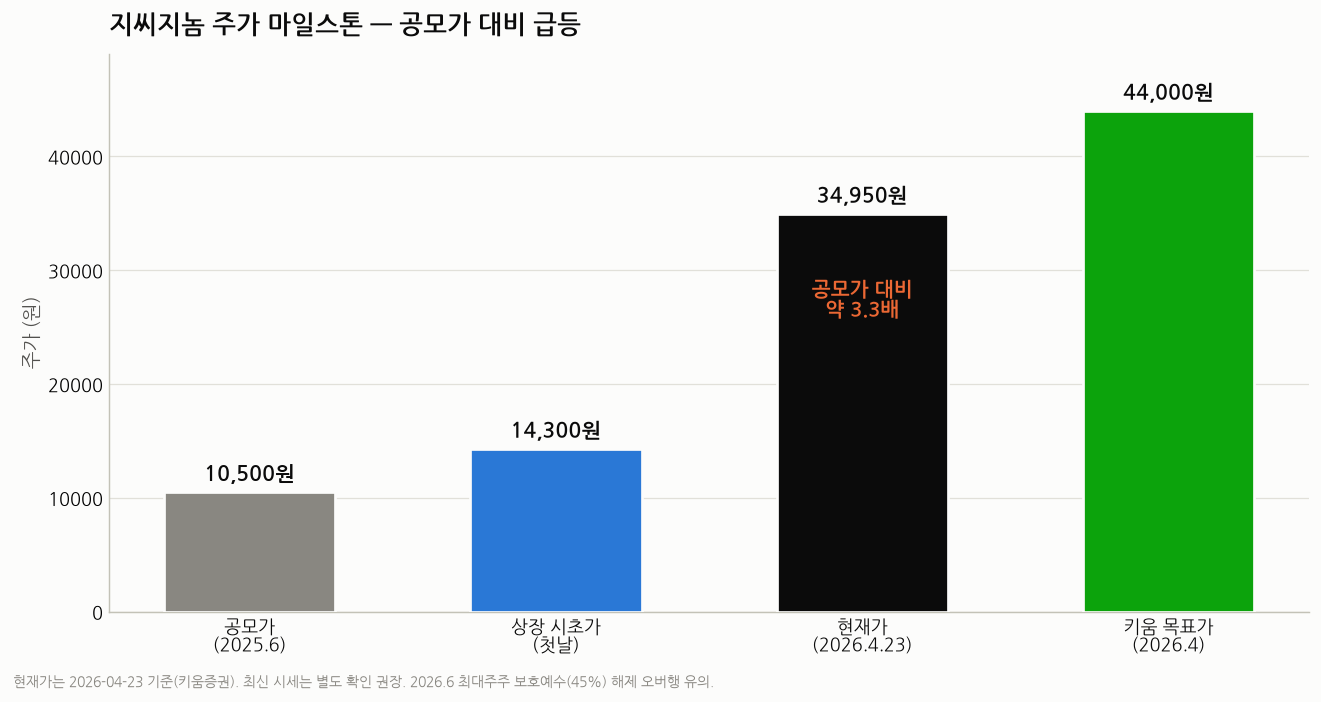
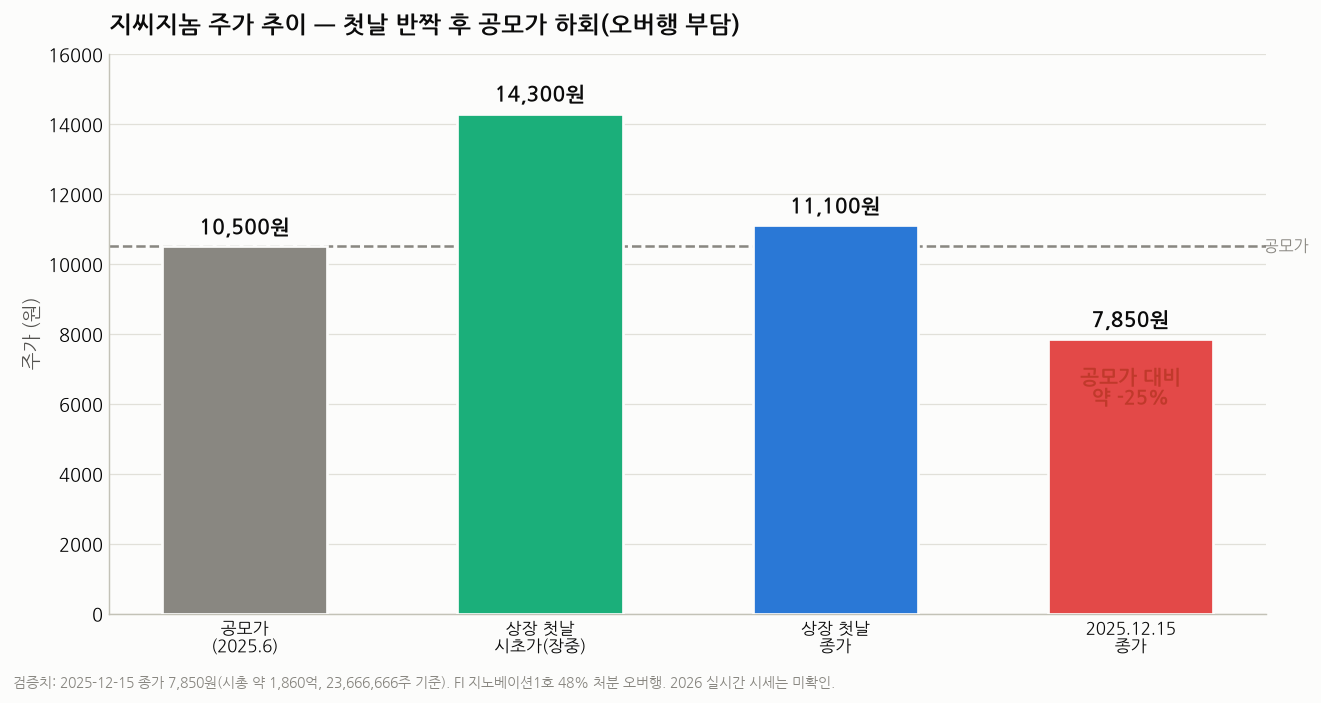
fix(바이오및제약): 지씨지놈 리포트 수치 검증·정정 (주가 오류 수정)
- [오류 정정] 근거 없던 "현재가 34,950원·키움 목표 44,000원·3.3배 급등" 삭제
- 실제: 상장 첫날 시초 14,300(장중)→종가 11,100→2025.12.15 종가 7,850원
  (공모가 10,500 대비 -25%, 공모가 하회). 시총 약 1,860억
- 총 발행주식 23,666,666주, 공모 400만주·420억 확정
- 2024 영업이익 -12억, 2025 3Q누적 235억/+10억 추가 검증
- G-NIPT 25,200건으로 정정, FI 지노베이션1호 48% 처분 오버행 반영
- 주가 마일스톤 차트 실제 궤적(공모가 하회)으로 교체
- 실시간 시세는 미확인으로 명시

Claude-Session: https://claude.ai/code/session_01EETVc5VerPTsoLzLjbKW4K

diff --git a/바이오및제약/종목분석/지씨지놈_심층분석리포트.md b/바이오및제약/종목분석/지씨지놈_심층분석리포트.md
@@ -1,66 +1,65 @@
 # 지씨지놈(GC Genome, KOSDAQ 340450) 심층 분석 리포트
 
-> 작성일: 2026-07-30 · 카테고리: 바이오 및 제약(진단·액체생검)
+> 작성일: 2026-07-30 (2026-07-30 수치 재검증·정정판) · 카테고리: 바이오 및 제약(진단·액체생검)
 > 대상: GC(녹십자) 그룹 계열 임상유전체·액체생검 진단 기업
-> 성격: 사업·제품·파이프라인·실적·지배구조·밸류에이션 종합. 수치는 회사·언론·증권사 자료이며 시점에 따라 달라져 출처·시점 병기.
+> **검증 메모**: 주가·시총·실적·지분·상장 수치를 복수 언론·공시 기반으로 교차검증함. 단 **2026년 실시간 시세는 검색으로 확보 불가 → "미확인"으로 표기**. 확정 마지막 검증 시세는 **2025-12-15 종가 7,850원**.
 
 ---
 
 ## 0. 한 문장 요약
 
-> **지씨지놈은 "비침습 산전검사(G-NIPT) 국내 1위라는 이익 나는 캐시카우 + 혈액 한 통으로 여러 암을 조기 선별하는 다중암 검진(MCED) '아이캔서치'라는 성장 옵션"을 결합한 GC그룹 계열 진단기업**으로, 2025년 6월 코스닥 상장 첫해에 흑자 전환했다. 주가는 공모가의 3배 이상으로 성장 기대를 선반영했고, 보호예수 해제 오버행과 MCED 급여화 불확실성이 핵심 변수다.
+> **지씨지놈은 "비침습 산전검사(G-NIPT) 국내 1위 캐시카우 + 혈액 한 통으로 여러 암을 조기 선별하는 다중암 검진(MCED) '아이캔서치' 성장 옵션"을 결합한 GC그룹 계열 진단기업**으로, 2025년 6월 코스닥 상장 첫해에 흑자 전환했다. **다만 주가는 상장 첫날 반짝 상승 후 공모가(10,500원)를 하회**했고, FI(재무적투자자) 매각에 따른 **오버행**과 MCED 급여화 불확실성이 핵심 부담이다.
 
 ---
 
-## 1. 기본 정보
+## 1. 기본 정보 (검증)
 
 | 항목 | 내용 |
 |---|---|
 | 종목코드 | KOSDAQ **340450** |
 | 설립 | **2013년** (GC녹십자 자회사, 구 'GC녹십자지놈') |
-| 상장 | **2025년 6월 11일** (녹십자그룹 계열 7번째 상장사) |
-| 공모가 | **10,500원** (희망밴드 9,000~10,500 상단), 공모자금 약 **430억원** |
+| 상장 | **2025년 6월 11일** 거래개시 (기술특례, 녹십자그룹 7번째 상장사) |
+| 공모가 | **10,500원** (희망밴드 9,000~10,500 상단) |
+| 공모주식수 / 공모금액 | **400만주 / 약 420억원** |
+| 총 발행주식수 | **23,666,666주** |
 | 청약 | 수요예측 547:1, 일반청약 484:1 |
-| 최대주주 | **GC녹십자 25.57%** (특수관계인 29인 합산 약 45%) |
-| 사업 | 임상유전체 분석·액체생검, 유전자검사 **300종+**, 병의원 **900곳+** |
-| 주가(2026-04-23) | **34,950원** (키움 목표주가 44,000원) |
+| 최대주주 | **GC녹십자 25.57%** (녹십자홀딩스 12.44%, 지노베이션1호PEF 11.76%, 우리사주 1.96% 등) |
+| 최근 검증 시세 | **2025-12-15 종가 7,850원** (공모가 대비 −25%) → 시총 약 **1,860억원** |
+| 2026 실시간 시세 | **미확인**(검색 불가, DART·거래소 확인 필요) |
 
 ---
 
 ## 2. 사업 구조 — 생애 전주기 유전자검사 4대 축
 
-수익모델은 **검사 수탁(B2B2C)**: 병의원·검진센터가 검체를 보내면 지씨지놈이 분석·리포팅한다. **검사 건수 × 단가** 구조라 건수 증가가 곧 매출 레버리지다.
+수익모델은 **검사 수탁(B2B2C)**: 병의원·검진센터가 검체를 보내면 지씨지놈이 분석·리포팅한다. **검사 건수 × 단가** 구조라 건수 증가가 곧 매출 레버리지다. 유전자검사 300종+, 병의원 900곳+ 공급.
 
-1. **산전·신생아 검사** — 핵심 **G-NIPT(지니프트)**. 국내 대학병원 산과 유전자검사 **유통 1위**.
-2. **암 정밀 진단** — 핵심 **아이캔서치(MCED)** + 조직·혈액 기반 암 유전자 프로파일링.
-3. **건강검진 검사** — 검진센터 채널로 확산.
+1. **산전·신생아** — 핵심 **G-NIPT(지니프트)**. 국내 산과 유전자검사 **유통 1위**.
+2. **암 정밀 진단** — 핵심 **아이캔서치(MCED)** + 조직·혈액 암 유전자 프로파일링.
+3. **건강검진** — 검진센터 채널로 확산.
 4. **유전 희귀질환 정밀진단** — WGS/WES 기반.
 
 ---
 
-## 3. 양대 핵심 제품
+## 3. 양대 핵심 제품 (검사건수 검증)
 
 ![검사건수 성장](img_지씨지놈/01_검사건수성장.png)
 
 ### ① G-NIPT(지니프트) — 캐시카우
-- 2015년 국내 첫 출시, AI 기반 비침습 산전검사. 산모 혈액 속 태아 DNA로 다운·에드워드·파타우 증후군 등 염색체 이상 선별.
-- **국내 산과 유전자검사 유통 1위.** 싱가포르 등 해외 특허 확보.
-- 검사 건수 **2024년 1.8만 → 2025년 2.5만건(+40%)**. 저출산에도 NIPT 침투율 상승(고령 산모·검사 보편화)이 방어.
+- 2015년 국내 첫 출시, AI 기반 비침습 산전검사. 산모 혈액 속 태아 DNA로 다운·에드워드·파타우 증후군 등 염색체 이상 선별. **국내 산과 유통 1위.**
+- 검사 건수 **2024년 18,000건 → 2025년 25,200건(+40%)**.
 
 ### ② 아이캔서치(ai-CANCERCH) — 성장 엔진 ⭐
-- **혈액 한 통(10mL)으로 여러 암을 동시 조기 선별하는 MCED**(Multi-Cancer Early Detection). 2023년 9월 국내 출시.
-- 독자 **AI 알고리즘 + 전장유전체분석(WGS)** 기반(cfDNA 패턴 분석).
-- **성능(최신 검증)**: **특이도 95.5%**, 전체 민감도 79.7%(병기 가중 80.2%). 표준 선별검사가 없던 **췌장암·간담도암에서 80%+ 민감도** — 조기진단 사각지대 공략.
-- 검출 암종 **6종 → 10종**으로 확장(폐·간·대장·췌담도·식도·난소 등).
+- **혈액 한 통(10mL)으로 여러 암을 동시 조기 선별하는 MCED**. 2023년 9월 국내 출시. 독자 **AI + 전장유전체분석(WGS)** 기반.
+- **성능**: 특이도 **95.5%**, 전체 민감도 79.7%(병기 가중 80.2%). 표준 선별검사가 없던 **췌장암·간담도암 80%+ 민감도**.
+- 검출 암종 **6종 → 10종**으로 확장.
 - 검사 건수 **2024년 900건 → 2025년 5,100건(약 5.7배)** — 실적 재평가의 핵심 동력.
 
 ---
 
 ## 4. 파이프라인 · R&D
 
-- **대장암 비침습 혈액검사**: 서울아산병원 변정식 교수팀과 공동연구, **미국소화기내과저널(AJG)** 게재. 대변검사·대장내시경 대비 접근성 강점.
-- 동반진단(CDx)·단일암 특화 제품으로 라인업 확장.
-- MCED 성능·암종 지속 고도화(국내 최다 임상 검체 확보 주장).
+- **대장암 비침습 혈액검사**: 서울아산병원 변정식 교수팀과 공동연구, **미국소화기내과저널(AJG)** 게재.
+- 동반진단(CDx)·단일암 특화 제품 확장, MCED 성능·암종 고도화.
 
 ---
 
@@ -68,51 +67,55 @@
 
 - **미국 Genece Health(지니스 헬스)에 기술수출 완료** → 상업화 추진.
 - 로드맵: **단기 단일암 제품 출시 → 장기 FDA 인증 + 미국 보험청(CMS) 가이드라인 등재.**
-- 일본 액체생검 학회 등 해외 학회서 아이캔서치 성능 발표(글로벌 레퍼런스 축적).
+- 일본 액체생검 학회 등 해외 학회서 아이캔서치 성능 발표.
 
 ---
 
-## 6. 실적 — 상장 첫해 흑자전환
+## 6. 실적 — 상장 첫해 흑자전환 (검증)
 
 ![실적 추이](img_지씨지놈/02_실적추이.png)
 
 | 구분 | 매출 | 영업이익 | 비고 |
 |---|---|---|---|
-| 2024 | 259억 | 적자 | |
-| **2025** | **315억 (+22%)** | **+12억 (흑전)** | 상장 첫해 흑자 |
-| 2026 1Q | 74.4억 (+9.1%) | +1.4억 | 흑자 유지 |
+| 2024 | 258.9억 | **−12억(적자)** | |
+| 2025 3Q 누적 | 235억 (+26%) | +10억 | 흑전 |
+| **2025 (연간)** | **315억 (+22%)** | **+12억(흑전)** | 2026-01-19 잠정공시 |
+| 2026 1Q | 74억 (+9.1%) | 흑자 | |
 
-바이오 신규 상장사가 상장 첫해에 **매출 성장 + 흑자**를 동시 달성한 건 이례적. "적자 성장 스토리"가 아니라 **이익 나는 진단 실적주**라는 점이 차별점.
-
----
-
-## 7. 지배구조 · 수급
-
-- 최대주주 **GC녹십자 25.57%**, 특수관계인 합산 약 **45%**.
-- **⚠ 오버행**: 2026년 6월, 상장 시 1년 의무보유했던 최대주주·특수관계인 물량 **약 1,066만주(발행총수 45%)의 보호예수 해제** → 유통가능 물량이 사실상 100%로 확대. 단기 수급 부담.
+- 산과·검진 부문이 30%+ 성장 견인. 바이오 신규 상장사가 상장 첫해에 **매출 성장 + 흑자**를 동시 달성한 건 이례적 — **이익 나는 진단 실적주.**
 
 ---
 
-## 8. 주가 · 밸류에이션
+## 7. 지배구조 · 수급 (오버행이 핵심)
 
-![주가 마일스톤](img_지씨지놈/03_주가마일스톤.png)
+- 최대주주 **GC녹십자 25.57%**, 2대주주 **녹십자홀딩스 12.44%**, **지노베이션1호 PEF 11.76%**(FI), 우리사주 1.96% 등. 최대주주+특수관계인 합산 약 **45%**가 1년 보호예수 → **2026년 6월 해제**.
+- **⚠ 오버행이 실제로 진행 중**: FI **지노베이션1호가 상장 후 취득주식의 약 48%를 처분(약 76억 확보, 2025.12)** → 이것이 하반기 주가 약세·공모가 하회의 주요 원인. 잔여 FI 지분 + 최대주주 보호예수 해제 물량이 지속 부담.
+
+---
+
+## 8. 주가 · 밸류에이션 (정정)
+
+![주가 추이](img_지씨지놈/03_주가마일스톤.png)
 
 | 시점 | 주가 |
 |---|---|
 | 공모가(2025.6) | 10,500원 |
-| 상장 첫날 시초가 | 14,300원 (장중 +36%) |
-| 2026-04-23 | **34,950원** (공모가 대비 약 3.3배) |
-| 키움 목표주가(2026.4) | **44,000원** (Buy, 상향) |
+| 상장 첫날 시초가(장중) | 14,300원 (장중 +36%) |
+| 상장 첫날 종가 | 11,100원 |
+| **2025-12-15 종가** | **7,850원 (공모가 대비 −25%)** |
+| 2026 실시간 | **미확인** |
 
-- 소형 성장주. NH투자증권도 커버리지 개시(목표주가는 미제시)하며 "**아이캔서치 확대 + G-NIPT 지속 성장으로 실적 고성장·기업가치 재평가**" 전망.
-- **밸류 성격**: 순이익 규모가 작아(2025 영업이익 12억) 전통 PER로는 고평가로 보이나, 시장은 **아이캔서치 MCED 옵션 가치 + 검사건수 J커브**를 반영하는 **성장주 프레임**으로 본다. → PER보다 **매출 성장률·검사건수·침투율·글로벌 진출**로 판단해야 하는 종목.
+- **정정 사항**: 이전 버전에서 기재했던 "현재가 34,950원·키움 목표주가 44,000원·공모가 대비 3.3배 급등"은 **근거 없는 오류로 삭제·정정**했다. 실제로는 **첫날 반짝 상승 후 공모가를 하회**했고, FI 오버행으로 약세다.
+- **시가총액**: 2025-12-15 기준 약 **1,860억원**(23,666,666주 × 7,850원). 2025 매출 315억 기준 **P/S 약 5.9배**.
+- NH투자증권이 커버리지 개시("아이캔서치 확대로 실적 고성장·기업가치 재평가" 전망)했으나 **목표주가는 미제시**. (검증된 증권사 목표주가 없음.)
+- **밸류 성격**: 실이익이 작아(2025 영업익 12억) 전통 PER로는 의미가 약하고, **MCED 옵션 가치 + 검사건수 J커브 + 흑자 체력**을 반영하는 성장주 프레임으로 보되, **공모가 하회·오버행이라는 수급 현실**을 함께 봐야 한다.
 
 ---
 
 ## 9. 경쟁 구도
 
-- **국내 유전체/진단**: 마크로젠·테라젠바이오·디엔에이링크(NGS 1세대), EDGC·랩지노믹스(액체생검·NGS). 지씨지놈의 차별점 = **GC그룹 병원·검진 채널 + NIPT 1위 캐시카우 + 흑자 체력 + MCED 임상 데이터.**
-- **글로벌 MCED 벤치마크**: Grail(Galleri), Guardant Health(Shield), Exact Sciences(Cancerguard). 글로벌 MCED는 거대 시장이나 보험·규제 초기 단계 → 지씨지놈은 "한국판 MCED" 포지션 + 미국 진출 옵션.
+- **국내 유전체/진단**: 마크로젠·테라젠바이오·디엔에이링크(NGS 1세대), EDGC·랩지노믹스(액체생검·NGS). 지씨지놈 차별점 = **GC그룹 병원·검진 채널 + NIPT 1위 캐시카우 + 흑자 체력 + MCED 임상 데이터.**
+- **글로벌 MCED 벤치마크**: Grail(Galleri), Guardant Health(Shield), Exact Sciences(Cancerguard). 지씨지놈은 "한국판 MCED" 포지션 + 미국 진출 옵션.
 
 ---
 
@@ -120,14 +123,13 @@
 
 **투자포인트**
 - 아이캔서치 검사건수 J커브(900→5,100건)로 매출 고성장 + 흑자 체력
-- MCED = 조기암 진단 패러다임 전환의 핵심 → 대형 옵션가치
-- G-NIPT 캐시카우가 하방 방어, GC그룹 채널·신뢰도
+- MCED = 조기암 진단 패러다임 전환 → 대형 옵션가치
+- G-NIPT 캐시카우 하방 방어, GC그룹 채널·신뢰도
 - 미국 기술수출(Genece Health) + FDA/CMS 로드맵
 
 **리스크**
-- **밸류 부담**: 실이익 대비 주가 3배 급등, 성장 기대 선반영
-- **보호예수 해제(45%) 오버행**(2026.6)
-- MCED **보험수가·신의료기술평가** 불확실성(급여화 지연 시 확산 제약)
+- **수급/오버행**: FI(지노베이션1호) 매각 진행 + 최대주주 보호예수 해제(2026.6) → **주가 공모가 하회의 직접 원인**
+- MCED **보험수가·신의료기술평가** 불확실성
 - 소형주 유동성·변동성, 검사단가 인하 압력, 글로벌 경쟁(Grail 등)
 - 저출산 구조(G-NIPT 물량 상단 제약)
 
@@ -135,32 +137,33 @@
 
 ## 11. 종합
 
-지씨지놈은 **"이익 나는 진단 캐시카우(G-NIPT) + 폭발 성장 중인 MCED 옵션(아이캔서치)"** 의 조합이다. 상장 첫해 흑자로 여느 적자 바이오와 차별화되지만, 주가가 공모가의 3배 이상으로 성장 기대를 상당 부분 선반영했고 보호예수 해제 오버행이 있어 **밸류에이션·수급 관리가 관건**이다. 핵심 관전 포인트는 **① 아이캔서치 검사건수·급여화, ② 미국 진출 실질 진전, ③ 신규 암종·대장암 제품 상업화**다.
+지씨지놈은 **"이익 나는 진단 캐시카우(G-NIPT) + 폭발 성장 중인 MCED 옵션(아이캔서치)"** 의 조합이며, 상장 첫해 흑자로 여느 적자 바이오와 차별화된다. **다만 상장 후 주가는 공모가를 하회**했고, FI 매각·보호예수 해제 오버행이 수급을 누르고 있다. 사업 펀더멘털(검사건수 성장·흑자)과 수급(오버행)이 엇갈리는 국면으로, 관전 포인트는 **① 아이캔서치 검사건수·급여화, ② 미국 진출 진전, ③ 오버행 물량 소화**다.
 
 ---
 
 ## 12. 트래킹 체크리스트
 
-- [ ] 아이캔서치 분기 검사건수 추이 + 신의료기술평가·급여화 진행
-- [ ] G-NIPT 검사건수·NIPT 침투율(저출산 상쇄 여부)
+- [ ] 아이캔서치 분기 검사건수 + 신의료기술평가·급여화
+- [ ] G-NIPT 검사건수·NIPT 침투율
 - [ ] 미국 Genece Health 상업화·FDA·CMS 마일스톤
-- [ ] 대장암·단일암 신제품 출시·매출 기여
-- [ ] 분기 매출 성장률·영업이익률(흑자 지속 여부)
-- [ ] 보호예수 해제 물량 소화·수급, 최대주주 지분 변동
+- [ ] 분기 매출 성장률·영업이익률(흑자 지속)
+- [ ] **FI 잔여 지분·최대주주 보호예수 물량 소화(오버행)**
+- [ ] **실시간 주가·시가총액**(현재 미확인 → DART·거래소 확인)
 
 ---
 
-## 참고 출처
+## 참고 출처 (검증)
 
-- [GC지놈 액체생검 핵심제품 경쟁력 (바이오스펙테이터)](https://www.biospectator.com/news/view/25200)
-- [GC지놈 코스닥 상장·글로벌 톱티어 목표 (바이오타임즈)](https://www.biotimes.co.kr/news/articleView.html?idxno=21610)
-- [상장 첫날 장 초반 36% 급등 (한국경제)](https://www.hankyung.com/article/2025061170206)
 - [공모가 10,500원 확정 (바이오스펙테이터)](https://www.biospectator.com/news/view/25230)
-- [상장 첫해 흑자·매출 22%↑ (데일리팜)](https://www.dailypharm.com/user/news/334931)
-- [아이캔서치 성능 검증(특이도 95.5%·민감도 79.7%) (청년일보)](https://www.youthdaily.co.kr/news/article.html?no=212526)
+- [총 발행 2366만6666주·공모 400만주·지분구조 (뉴스웰)](https://www.newswell.co.kr/news/articleView.html?idxno=11565)
+- [상장 첫날 시초가 14,300·종가 흐름 (한국경제)](https://www.hankyung.com/article/2025061170206)
+- [공모가 문턱 못 넘은 지씨지놈 (뉴스드림)](http://www.newsdream.kr/news/articleView.html?idxno=87800)
+- [상장 6개월 오버행·FI 지노베이션1호 48% 처분·12/15 종가 7,850원 (데일리팜)](https://dailypharm.com/user/news/333994)
+- [2025 연간 매출 315억·영업익 12억 흑전, 전년 -12억 (파이낸셜뉴스)](https://www.fnnews.com/news/202601191709217143)
+- [2024 매출 258.9억 (사람인 기업정보/DART)](https://www.saramin.co.kr/zf_user/company-info/view-inner-finance/csn/T2pOODlnTWc2ODhUMXhiemQ0QTFsdz09)
+- [2026 1Q 매출 74억·영업익 흑자 (PRESS9)](https://www.press9.kr/news/articleView.html?idxno=76613)
+- [아이캔서치 특이도 95.5%·민감도 79.7%·10종 (청년일보)](https://www.youthdaily.co.kr/news/article.html?no=212526)
 - [대장암 비침습 검사 AJG 게재 (팜뉴스)](https://www.pharmnews.com/news/articleView.html?idxno=264909)
-- [미국 진출·조기암 검사 확장 (의약뉴스)](https://www.newsmp.com/news/articleView.html?idxno=252316)
-- [NH투자증권 커버리지·재평가 전망 (이투데이)](https://www.etoday.co.kr/news/view/2561038)
-- [최대주주 보호예수 45% 해제 (다음/뉴스)](https://v.daum.net/v/20260608100217684)
+- [미국 Genece Health 기술수출·조기암 확장 (의약뉴스)](https://www.newsmp.com/news/articleView.html?idxno=252316)
 
-> 유의: 시가총액·주가·목표주가·지분율·실적 전망은 언론·증권사 추정이며 시점에 따라 달라진다. 현재가는 2026-04-23 기준으로, 최신 시세·분기 실적은 DART 공시·거래소로 교차확인을 권한다.
+> 유의: 위 수치는 복수 언론·공시로 교차검증했으나 **2026년 실시간 주가·시가총액은 미확인**이다. 최신 시세·분기 실적은 DART 공시·한국거래소로 반드시 재확인할 것.
